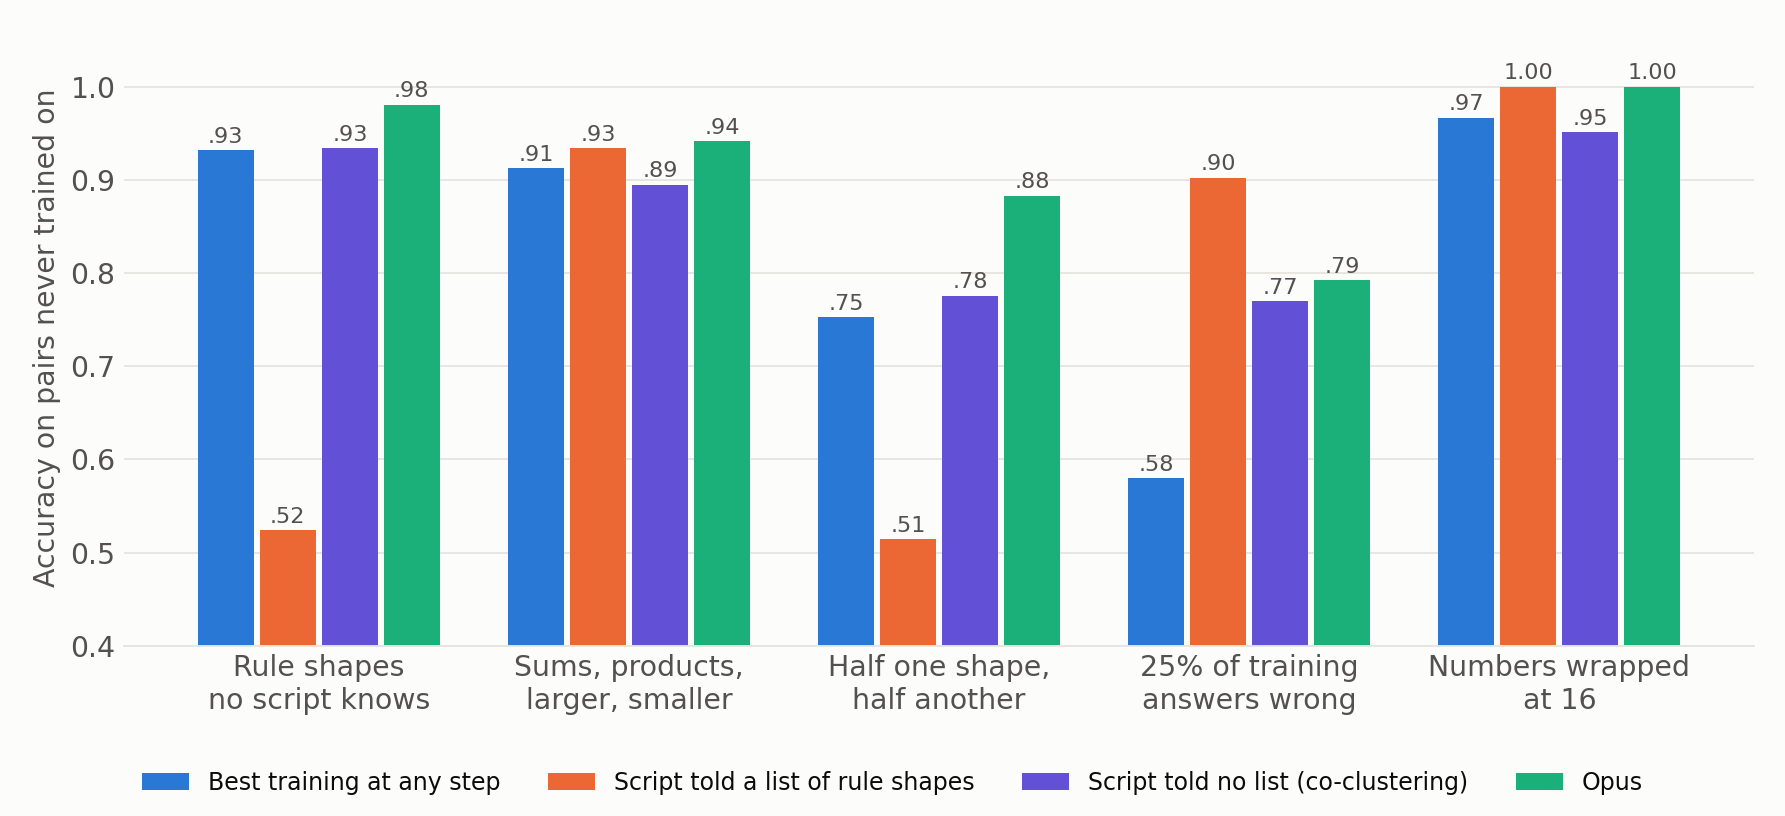
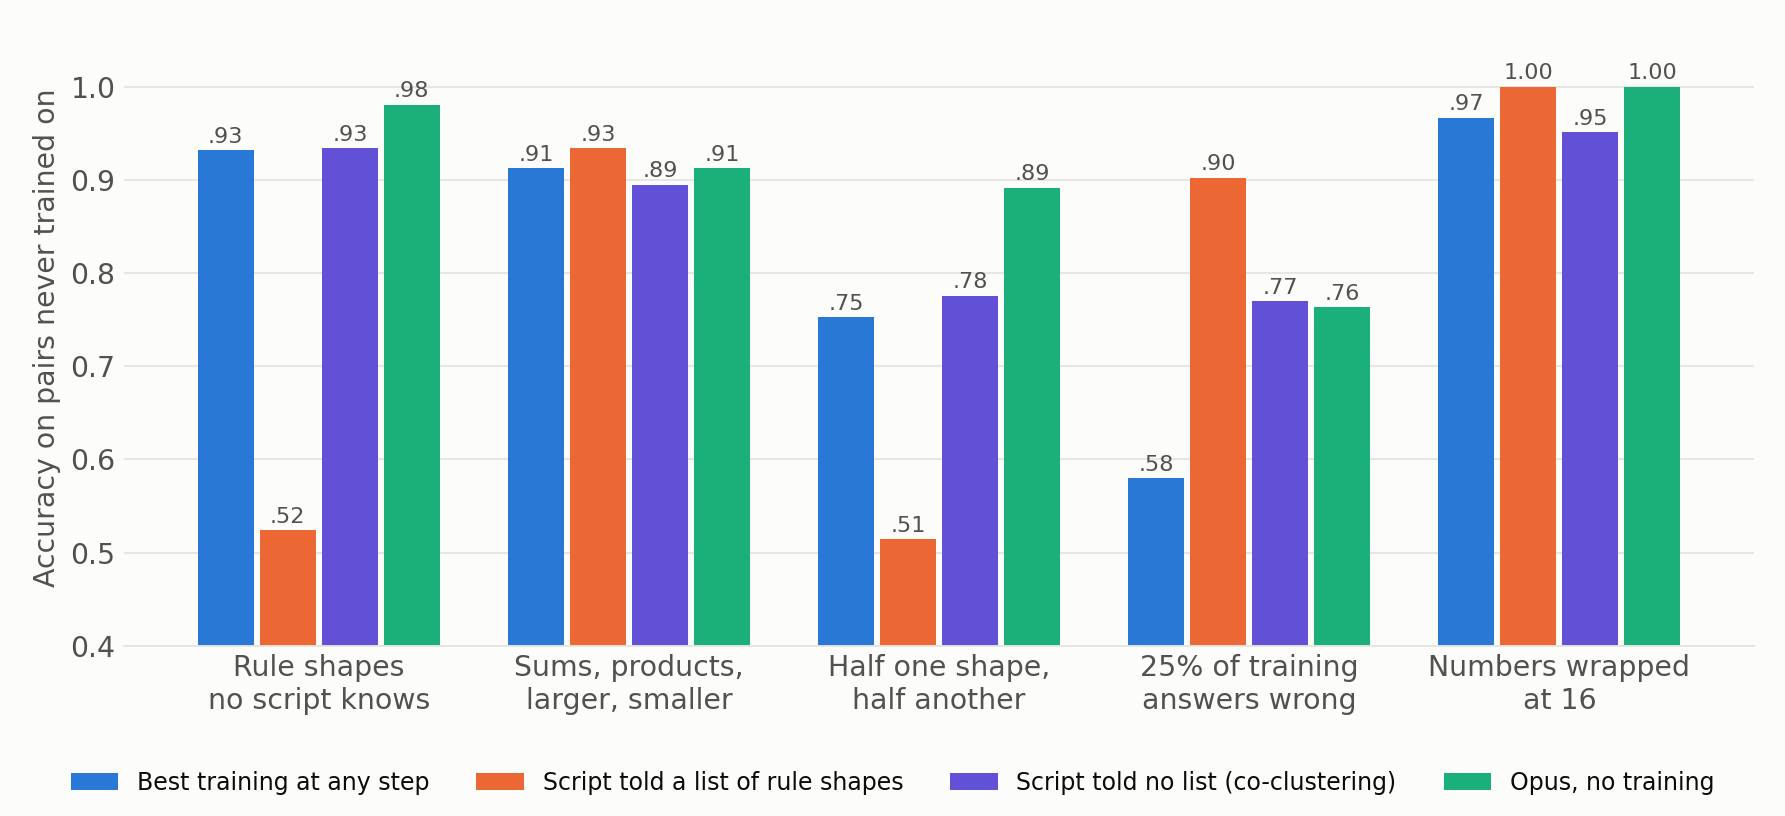
Correct the no-training claim: weights as written score .913 vs .833, above best training on 14 of 16; the earlier .922 included 150 steps at Opus's chosen speeds

diff --git a/chart.py b/chart.py
@@ -92,6 +92,9 @@ def best_training(kind, inst, mode="answers", start=150):
 def script(rows, kind, inst): return [r for r in rows if r["source"] == "labels" and r["kind"] == kind and r["inst"] == inst][-1]["mean"]
 
 
+NT = {r["run"]: r["no_training_mean"] for r in map(json.loads, open("toy/search_runs/no_training.jsonl"))}
+
+
 def answers(kind): return sorted((r for r in R if r["mode"] == "answers" and r["kind"] == kind), key=lambda r: r["inst"])
 
 
@@ -101,20 +104,20 @@ def style(ax):
 
 
 def draw_tasks(path):
-    """One row per task: best training at any step against Opus's first reading."""
+    """One row per task: best training at any step against Opus's written weights with no training at all."""
     rows = [(label, r) for kind, label in KINDS for r in answers(kind)]
     fig, ax = plt.subplots(figsize=(10.5, 7.4)); y = 0; ticks = []; last = None
     for label, r in rows:
         if label != last and last is not None: y += .7
         if label != last: ax.text(-.012, y - .78, label, fontsize=11.5, color=INK, fontweight="bold", ha="left", transform=ax.get_yaxis_transform())
         if label != last: y += .25
-        t = best_training(r["kind"], r["inst"]); o = r["mean"]; last = label
+        t = best_training(r["kind"], r["inst"]); o = NT[r["run"]]; last = label
         ax.plot([t, o], [y, y], color=GRID, lw=3, zorder=1, solid_capstyle="round")
         ax.scatter(t, y, s=75, color=PLAIN, zorder=3, edgecolors=SURFACE, linewidths=1.5); ax.scatter(o, y, s=75, color=OPUS, zorder=3, edgecolors=SURFACE, linewidths=1.5)
         ax.text(max(t, o) + .012, y, f"{o - t:+.3f}".replace("0.", "."), va="center", fontsize=10.5, color=MUTED); y += 1
     ax.set_ylim(y, -1.2); ax.set_yticks([]); ax.set_xlim(.08, 1.06); ax.set_xlabel("Accuracy on pairs never trained on"); ax.grid(axis="x", color=GRID, lw=.8, zorder=0); ax.set_axisbelow(True); style(ax); ax.spines["bottom"].set_visible(False)
     handles = [plt.Line2D([], [], marker="o", ls="", ms=9, color=c) for c in (PLAIN, OPUS)]
-    fig.legend(handles, ["Best of 34 training settings, at its best step of 6,000", "Opus: answers read, weights written, no training first"], loc="lower center", ncol=2, frameon=False, fontsize=11)
+    fig.legend(handles, ["Best of 34 training settings, at its best step of 6,000", "Opus: answers read, weights written, no training at all"], loc="lower center", ncol=2, frameon=False, fontsize=11)
     fig.tight_layout(rect=(0, .05, 1, 1)); fig.savefig(path, dpi=170); plt.close(fig)
 
 
@@ -135,7 +138,7 @@ def draw_timing(path):
 def draw_rivals(path):
     """Mean over each kind's tasks: Opus against two scripts told every training answer, and best training."""
     shown = [k for k in KINDS if k[0] != "random"]; names = ("Rule shapes\nno script knows", "Sums, products,\nlarger, smaller", "Half one shape,\nhalf another", "25% of training\nanswers wrong", "Numbers wrapped\nat 16"); w = .2
-    series_ = (("Best training at any step", PLAIN, lambda r: best_training(r["kind"], r["inst"])), ("Script told a list of rule shapes", STRONG, lambda r: script(LI, r["kind"], r["inst"])), ("Script told no list (co-clustering)", NOEDIT, lambda r: script(CO, r["kind"], r["inst"])), ("Opus", OPUS, lambda r: r["mean"]))
+    series_ = (("Best training at any step", PLAIN, lambda r: best_training(r["kind"], r["inst"])), ("Script told a list of rule shapes", STRONG, lambda r: script(LI, r["kind"], r["inst"])), ("Script told no list (co-clustering)", NOEDIT, lambda r: script(CO, r["kind"], r["inst"])), ("Opus, no training", OPUS, lambda r: NT[r["run"]]))
     fig, ax = plt.subplots(figsize=(10.5, 4.8))
     for j, (label, c, f) in enumerate(series_):
         for i, (kind, _) in enumerate(shown):
@@ -200,10 +203,10 @@ def draw_flow(path):
     names = {"Rule shapes no script knows": "Rule shapes no script knows", "Sums, products, larger, smaller": "Sums, products, larger", "Half one shape, half another": "Half one shape, half another", "25% of training answers wrong": "25% of answers wrong", "Numbers wrapped at 16": "Numbers wrapped at 16"}
     rect(990, 50, 610, 410, "white", r=6, sw=1.4, stroke=C["ink"]); text(1010, 84, "Accuracy on pairs never trained on, never shown to Opus", 19, "bold", anchor="start")
     for i, (label, rs) in enumerate(rows):
-        y = 104 + i * 58; t = m4([best_training(r["kind"], r["inst"]) for r in rs]); o = m4([r["mean"] for r in rs])
+        y = 104 + i * 58; t = m4([best_training(r["kind"], r["inst"]) for r in rs]); o = sum(NT[r["run"]] for r in rs) / len(rs)
         text(1010, y + 25, names.get(label, label), 16.5, "bold" if i == 0 else "normal", anchor="start")
         add(f'<rect x="1250" y="{y + 4}" width="{t * 290:.1f}" height="19" rx="3" fill="{C["train"][0]}"/><rect x="1250" y="{y + 25}" width="{o * 290:.1f}" height="19" rx="3" fill="#12875e"/>')
-        if i == 0: text(1258, y + 19, "best training", 14, "bold", fill="white", anchor="start"); text(1258, y + 40, "Opus, no training first", 14, "bold", fill="white", anchor="start")
+        if i == 0: text(1258, y + 19, "best training", 14, "bold", fill="white", anchor="start"); text(1258, y + 40, "Opus, no training", 14, "bold", fill="white", anchor="start")
         text(1250 + t * 290 + 7, y + 20, f"{t:.3f}"[1:] if t < 1 else "1.000", 16, anchor="start"); text(1250 + o * 290 + 7, y + 41, f"{o:.3f}"[1:] if o < 1 else "1.000", 16, "bold", anchor="start")
     # Zoom into Opus
     add('<line x1="390" y1="421" x2="250" y2="490" stroke="#111111" stroke-width="1.2" stroke-dasharray="6 5"/><line x1="640" y1="421" x2="1120" y2="490" stroke="#111111" stroke-width="1.2" stroke-dasharray="6 5"/>')

diff --git a/toy/no_training.py b/toy/no_training.py
@@ -1,0 +1,29 @@
+"""What did Opus's written weights score with no training at all? Replays each answers run's logged code in a fresh copy of the task, reads held-out pairs right after the edit, then trains the 150 steps and checks that the replay reproduces the recorded first reading.
+
+python3 no_training.py RUN [RUN ...]    print one row per run and append to search_runs/no_training.jsonl
+"""
+import json, multiprocessing, os, shutil, sys, tempfile
+HERE = os.path.dirname(os.path.abspath(__file__)); OUT = os.path.join(HERE, "search_runs", "no_training.jsonl")
+ORIG = os.path.join(HERE, "search_runs")
+TMP = os.environ.setdefault("SEARCH_RUNS", tempfile.mkdtemp(prefix="replay"))
+sys.path.insert(0, HERE)
+import search as S, sandbox
+
+
+def one(run):
+    rows = {r["run"]: r for r in S.recorded(os.path.join(ORIG, "results.jsonl"))}; r = rows[run]; led = S.recorded(os.path.join(ORIG, run, "ledger.jsonl"))
+    S.new(run, r["kind"], r["inst"], "answers"); d = os.path.join(S.RUNS, run); task = S.make_task(r["kind"], r["inst"]); st = S.load(d, task); blocks = 0
+    for x in led:
+        if x["kind"] == "edit": break
+        if x["kind"] == "code": sandbox.run(x["code"], os.path.join(d, "work"), cpu_seconds=S.CPU); blocks += 1
+    s, bad = S.edited(st, d); t = S.Net(); t.load_state_dict(s); none = S.acc(t, task["te"], task["clean"]); sp = {}
+    S.advance(st, d, task, "answers"); again = S.held(st, task)
+    row = dict(run=run, kind=r["kind"], inst=r["inst"], blocks=blocks, bad=bad, speed={k: round(float(v.mean()), 3) for k, v in st["speed"].items()}, no_training=none, no_training_mean=round(sum(none) / 4, 3), recorded=r["mean"], replayed=round(sum(again) / 4, 3))
+    shutil.rmtree(d, ignore_errors=True); return row
+
+
+if __name__ == "__main__":
+    with multiprocessing.get_context("spawn").Pool(min(8, len(sys.argv) - 1)) as p:
+        for row in p.imap_unordered(one, sys.argv[1:]):
+            print(json.dumps(row), flush=True)
+            with open(OUT, "a") as f: f.write(json.dumps(row) + "\n")

diff --git a/simple_charts.py b/simple_charts.py
@@ -20,8 +20,8 @@ f.box(50, 305, 470, 190, B); f.text(285, 370, "Normal training", 40, "bold"); f.
 f.box(560, 305, 470, 190, G, RED, 4); f.text(795, 370, "Opus 5.5", 40, "bold"); f.text(795, 420, "writes the weight numbers", 32); f.text(795, 460, "itself, no training", 32)
 f.arrow((285, 495), (285, 555)); f.arrow((795, 495), (795, 555))
 f.box(50, 555, 980, 300, ("#111111", "#ffffff"), sw=2, r=10); f.text(540, 610, "Correct on the hidden 30% neither one saw", 36, "bold")
-f.text(285, 750, "83%", 120, "bold", B[0]); f.text(795, 750, "92%", 120, "bold", "#12875e"); f.text(285, 815, "best training result", 30, fill=MUTE); f.text(795, 815, "Opus", 30, fill=MUTE)
-f.text(540, 920, "Average of 16 toy tasks. Opus won on all 16.", 36, "bold"); f.text(540, 975, "A tiny network with 8,751 weights.", 32, fill=MUTE); f.text(540, 1020, "These tasks all have a rule. Harder tasks are not tested yet.", 30, fill=MUTE)
+f.text(285, 750, "83%", 120, "bold", B[0]); f.text(795, 750, "91%", 120, "bold", "#12875e"); f.text(285, 815, "best training result", 30, fill=MUTE); f.text(795, 815, "Opus", 30, fill=MUTE)
+f.text(540, 920, "Average of 16 toy tasks. Opus won on 14 of 16.", 36, "bold"); f.text(540, 975, "A tiny network with 8,751 weights.", 32, fill=MUTE); f.text(540, 1020, "These tasks all have a rule. Harder tasks are not tested yet.", 30, fill=MUTE)
 f.save("charts/result")
 
 f = Fig()

diff --git a/README.md b/README.md
@@ -1,13 +1,13 @@
 # Environment for researching how an LLM can replace or augment training by writing network weights
 
 > [!IMPORTANT]
-> **Given every training answer and no training at all, Claude Opus 5.5 wrote weights that scored higher on unseen inputs than the best of 34 training settings at any step, on all 16 tasks that have a rule: mean +.089 at its first reading (standard error .021), smallest +.010.**
+> **Given every training answer and no training at all, Claude Opus 5.5 wrote weights that scored higher on unseen inputs than the best of 34 training settings at any step, on 14 of the 16 tasks that have a rule: mean +.080 (standard error .023). It lost the other two by .029 and .003.**
 >
 > Changing weights before or during training lost on all 4 kinds of task. Changing them after training helped at that step on 4 of 5 kinds, and the lead at the best reading was .02 or less. On 2 random tables with no rule, Opus said it found no rule.
 
 We are using this environment to write a paper for ICML 2027. It was built in [AI Research School](https://www.skool.com/become-ai-researcher-2669). The licence is MIT: you can use it for your own research without asking and without adding anyone as a co-author.
 
-![On the 16 toy tasks with a rule, normal training scored 83% on the hidden 30% of pairs and Opus 5.5 scored 92%](charts/result.png)
+![On the 16 toy tasks with a rule, normal training scored 83% on the hidden 30% of pairs and Opus 5.5 scored 91%, with no training](charts/result.png)
 
 ### The task: find a hidden rule from examples
 
@@ -21,7 +21,7 @@ In the example below, each number has a secret code, and the answer is the two c
 
 First we trained the network normally and kept the best score from 34 training settings at any step, which favours training. Then Claude Opus 5.5 read the same training data and wrote all 8,751 weights as literal numbers, with no training at all.
 
-Opus found the rule, calculated weights that compute it, and was scored on the hidden pairs at that first reading.
+Opus found the rule and calculated weights that compute it. These scores are the weights exactly as Opus wrote them, on the hidden pairs, with no training step after them.
 
 ![One task: Opus reads the examples, finds that the answer is code OR code, writes all 8,751 weights, and gets a hidden pair right](charts/example.png)
 
@@ -29,11 +29,11 @@ Opus found the rule, calculated weights that compute it, and was scored on the h
 
 | Tasks | Normal training | Opus 5.5 |
 |---|---:|---:|
-| 16 tasks with a rule | 83.3% | **92.2%** |
-| 3 of those, with 25% of training answers made wrong | 58.0% | **79.2%** |
-| 2 random tables with no rule (not in the 16) | **15.3%** | 12.3% |
+| 16 tasks with a rule | 83.3% | **91.3%** |
+| 3 of those, with 25% of training answers made wrong | 58.0% | **76.3%** |
+| 2 random tables with no rule (not in the 16) | **15.3%** | 12.6% |
 
-Opus won on all 16 tasks with a rule, by +.089 on average (standard error .021, smallest gain +.010). With 25% wrong answers, the hidden pairs keep their correct answers, so Opus recovered most of the rule despite the errors.
+Opus won on 14 of the 16 tasks with a rule, by +.080 on average (standard error .023). It lost one task by .029 and one by .003, both among sums, products, larger and smaller, where the mean over 3 tasks ties at .912. With 25% wrong answers, the hidden pairs keep their correct answers, so Opus recovered most of the rule despite the errors.
 
 More complex tasks have not been tested yet.
 
@@ -79,20 +79,20 @@ Opus changed a network once, after 1,500 steps of training. The first number com
 
 ### Replace training when you hold the answers and they follow a rule
 
-![Two paths from the same training answers: gradient descent reaches .833 on pairs it never saw; Opus reads the answers, finds the rule, calculates every weight and reaches .922. Below, the four steps on one real task](charts/flow.png)
+![Two paths from the same training answers: gradient descent reaches .833 on pairs it never saw; Opus reads the answers, finds the rule, calculates every weight and reaches .913. Below, the four steps on one real task](charts/flow.png)
 
-Opus got random weights and every training answer. It never saw the network train, because no training ran before its change. It worked out a rule, wrote the weights, and then 150 steps ran at speeds it chose. Training after its change added at most .018.
+Opus got random weights and every training answer. It never saw the network train, because no training ran before its change. It worked out a rule and wrote the weights. The test then ran 150 steps at speeds it chose, and it set every speed to 0 on 6 of 18 tasks. So the table gives both scores: the weights as written, and after those 150 steps.
 
-| Kind of task | Tasks | Opus, first reading | Best training at any step |
-|---|---:|---:|---:|
-| Rule shapes no script knows | 5 | **.981** | .932 |
-| Sums, products, larger, smaller | 3 | **.941** | .912 |
-| Half one shape, half another | 3 | **.883** | .753 |
-| 25% of training answers wrong | 3 | **.792** | .580 |
-| Numbers wrapped at 16 | 2 | **1.000** | .967 |
-| Random tables, no rule | 2 | .123 | .153 |
+| Kind of task | Tasks | Opus, no training | Opus, after 150 steps at its speeds | Best training at any step |
+|---|---:|---:|---:|---:|
+| Rule shapes no script knows | 5 | **.981** | .981 | .932 |
+| Sums, products, larger, smaller | 3 | .912 | .941 | .912 |
+| Half one shape, half another | 3 | **.892** | .883 | .753 |
+| 25% of training answers wrong | 3 | **.763** | .792 | .580 |
+| Numbers wrapped at 16 | 2 | **1.000** | 1.000 | .967 |
+| Random tables, no rule | 2 | .126 | .123 | .153 |
 
-> **Opus was above best training on all 16 tasks with a rule, and it passed the written rule on all 5 kinds.** Its gains were largest where training suffers most: mixed rules and wrong answers.
+> **With no training, Opus was above best training on 14 of 16 tasks with a rule. After its 150 steps it was above on all 16 and passed the written rule on all 5 kinds.** Its gains were largest where training suffers most: mixed rules and wrong answers.
 
 ### Use a plain script when you know the possible rule shapes, and an LLM when you do not
 
@@ -100,7 +100,7 @@ Two scripts got the same answers. One tries a fixed list of rule shapes that we 
 
 ![Opus against two scripts and best training, on each kind of task](charts/rivals.png)
 
-> **The list script scored .902 against Opus's .792 when 25% of the answers were wrong, because its list contained the right shapes. Outside its list it scored .52, against Opus's .98.** Opus beat co-clustering on 15 of 16 tasks, but that is one quick rival, and a stronger synthesis method might match Opus.
+> **The list script scored .902 against Opus's .763 when 25% of the answers were wrong, because its list contained the right shapes. Outside its list it scored .52, against Opus's .98.** Opus, with no training, beat co-clustering on 14 of 16 tasks, and co-clustering was slightly ahead on the 25% wrong tasks, .770 against .763. It is one quick rival, and a stronger synthesis method might match Opus.
 
 ### Do not read a rule unless the task has one
 

diff --git a/RESULTS.md b/RESULTS.md
@@ -182,7 +182,33 @@ A plain script with a list of rule shapes then ran on tasks 6-10, with no LLM. R
 
 ### Without any training: Opus given every training answer
 
-![Each task: the best training setting against Opus writing the weights with no training first](charts/tasks.png)
+![Each task: the best training setting against Opus's weights as written, with no training](charts/tasks.png)
+
+> [!WARNING]
+> **Correction, 2026-11-03.** An earlier version of this page and the README called the first reading "no training". In this test 150 steps ran after Opus's edit at speeds it chose, and it left some speeds above 0 on 12 of 18 tasks. `toy/no_training.py` replays each run's logged code and reads held-out pairs straight after the edit. The table below is that score. With no training at all the 16 tasks with a rule give .913 against .833, mean +.080, standard error .023, above best training on 14 of 16. The table further down keeps the first readings, which are .922 and +.089 after the 150 steps.
+
+| Run | Kind | Task | Largest mean speed on a tensor | Opus, no training | Opus first, after 150 steps | Best training, any step | Gain with no training |
+|---|---|---:|---:|---:|---:|---:|---:|
+| r34 | Rule shapes no script knows | 0 | .020 | .958 | .958 | .912 | +.046 |
+| r35 | Rule shapes no script knows | 1 | 0 | .975 | .975 | .928 | +.046 |
+| r36 | Rule shapes no script knows | 2 | 0 | .984 | .984 | .896 | +.088 |
+| r37 | Rule shapes no script knows | 3 | 0 | .992 | .992 | .958 | +.034 |
+| r38 | Rule shapes no script knows | 4 | 0 | .994 | .994 | .965 | +.029 |
+| r39 | Tables | 16 | 1.275 | .847 | .886 | .876 | -.029 |
+| r42 | Tables | 17 | .078 | .964 | .965 | .931 | +.033 |
+| r45 | Tables | 18 | .875 | .926 | .973 | .929 | -.003 |
+| r40 | Two shapes | 16 | 0 | .900 | .900 | .791 | +.109 |
+| r43 | Two shapes | 17 | .523 | .897 | .901 | .762 | +.135 |
+| r46 | Two shapes | 18 | 1.000 | .878 | .847 | .705 | +.173 |
+| r41 | 25% wrong | 16 | .708 | .568 | .661 | .556 | +.012 |
+| r44 | 25% wrong | 17 | .249 | .873 | .873 | .660 | +.213 |
+| r47 | 25% wrong | 18 | .007 | .849 | .842 | .524 | +.325 |
+| r48 | Wrapped | 16 | 0 | 1.000 | 1.000 | .960 | +.040 |
+| r49 | Wrapped | 17 | 0 | 1.000 | 1.000 | .974 | +.026 |
+| r50 | Random | 16 | .127 | .123 | .121 | .151 | -.028 |
+| r51 | Random | 17 | .127 | .128 | .126 | .156 | -.028 |
+
+The replay reproduced the recorded first reading exactly on 17 of 18 runs. On r47 it gave .849 where the run recorded .842, so r47's no-training score carries that gap.
 
 The rule was written before each batch: mean gain at the best reading at least +.03, and above zero on at least 4 of 5 tasks (on every task for the 3-task kinds). All 18 runs used tasks never used by anything else, except rule shapes no script knows, tasks 0-4, which the earlier Opus-with-network runs also used.
 

diff --git a/NOTES.md b/NOTES.md
@@ -410,3 +410,11 @@ Predictions: (9) tables passes, +.03 to +.08: right, +.040. (10) Conditions pass
 A list search on the answers beat Opus on partly wrong, .902 vs .792, because the list holds the right shapes. It tied on tables and wrapped, and lost on rule shapes outside the list, .524 vs .981, and on conditions, .514 vs .883. Cocluster on answers lost to Opus on 15 of 16; r41 lost to it.
 
 The search answer: before and during training lose. After training jumps ahead at that step on 4 of 5 kinds, and training never reached the first reading on 14 of 24 tasks, but the mean gap at the best reading stays under .02. Instead of training, with all the answers, works best, and it is program synthesis with weights as the storage.
+
+## Correction: first readings were not "no training"
+
+The README and the post called the answers runs "no training". Reading the ledgers showed that 150 steps ran after the edit at speeds Opus chose, and 12 of 18 runs left some speed above 0. `no_training.py` replays each run's code and reads held-out pairs right after the edit. 17 of 18 replays reproduce the recorded first reading exactly; r47 gives .849 against .842.
+
+With no training at all: 16 rule tasks .913 vs .833, +.080, standard error .023, 14 of 16 above best training (r39 -.029, r45 -.003). Tables tie at .912. 25% wrong .763 vs .580. Against co-clustering 14 of 16, and on 25% wrong .763 vs .770.
+
+The earlier line "training after its change added at most .018" was also wrong: r41 gained .093 and r45 gained .047 in those steps, and r46 lost .031.
